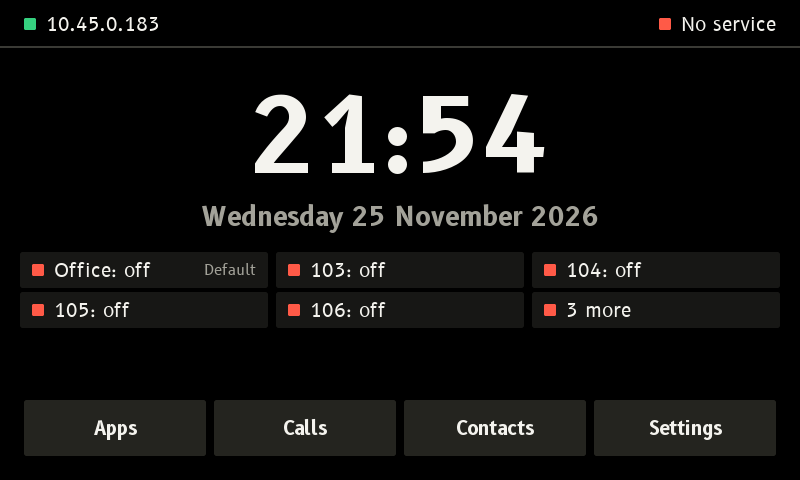
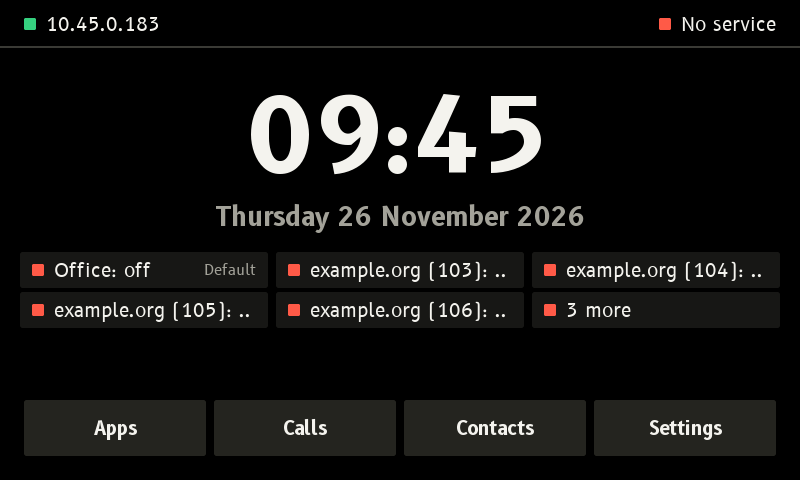
Docs: refused calls, +, account names, and the dialler's speed

diff --git a/docs/phone.md b/docs/phone.md
@@ -10,6 +10,7 @@ Issues [#26](https://github.com/M0LTE/yealink-t48s/issues/26), [#27](https://git
 - **New (2026-11-25, #77):** up to 16 accounts; per account an Account name, and under Advanced registration expiry, DTMF mode (RFC 2833, SIP INFO, in-band), codecs and their order, NAT keepalive ([sip.md](sip.md#running-it)).
 - **New (2026-11-23, #36):** up to six SIP accounts, each with its own registration, and a choice of which one a call goes out from. See [Several accounts](#several-accounts).
 - **New (2026-11-25, #77):** with the handset lifted (or Speaker or Headset on), a number is called without the Call key: at once when it is complete, such as 999 or an eleven-digit UK number, otherwise 4 s after the last digit. See [Dial plan](#dial-plan).
+- **New (2026-11-26):** a refused call says why in a few words ("Busy", "Number not found", "Call settings not accepted") in place of the far end's status line; a held 0 types +; a key in the dialler redraws only the number, so the screen keeps up with typing (see [Speed](#speed)); an account with no Account name is called by its provider's domain, `example.net`, not by its user and host ([Several accounts](#several-accounts)).
 - **Tested in the simulator against the real services**: baresip with our modules, `t48-audiod` on its silent backend and a throwaway SIP server, with two more baresips as the people at the other end. Eighteen scripted scenarios pass, and pass again with the phone's own ARM builds of the shell, baresip and the audio service running under qemu. The new parts (#27, #36) have not run on the phone yet.
 - Apps can no longer reach call control: baresip's TCP control port is gone, replaced by our own module on a socket only root can open ([sip.md](sip.md#control-interface)).
 
@@ -29,6 +30,8 @@ Issues [#26](https://github.com/M0LTE/yealink-t48s/issues/26), [#27](https://git
 | ![messages waiting](img/phone-messages.png) | ![do not disturb](img/phone-dnd.png) |
 | ![two accounts on the idle screen](img/phone-idle-two-accounts.png) | ![choosing the account to call from](img/phone-dial-account.png) |
 | ![which account was called](img/phone-incoming-account.png) | ![the history with accounts](img/phone-history-accounts.png) |
+| ![a call refused for its settings](img/phone-call-refused.png) | ![+ from a held 0](img/phone-dial-plus.png) |
+| ![accounts named by their domain](img/phone-idle-account-names.png) | ![the T46S: a refused call](img/t46s/call-refused.png) |
 
 ## What each thing does
 
@@ -37,7 +40,7 @@ Issues [#26](https://github.com/M0LTE/yealink-t48s/issues/26), [#27](https://git
 | **Lift the handset** | dial tone | calls the number typed; else dial tone | answers | moves the sound to the handset |
 | **Put it down** | | closes the dialler | | ends the call, if the sound was on the handset |
 | **Speaker**, **Headset** | dial tone there | calls the number typed there | answers there | moves the sound there. Pressed again: back to the handset if it is lifted, otherwise ends the call |
-| **Digits, `*`, `#`** | start a number | add to it; with the sound on, the number goes when complete ([dial plan](#dial-plan)). `#` is Call where the plan has no place for it | | send tones |
+| **Digits, `*`, `#`** | start a number | add to it; with the sound on, the number goes when complete ([dial plan](#dial-plan)). `#` is Call where the plan has no place for it. 0 held for 0.6 s as the first character is + | | send tones |
 | **OK** | apps | calls (on the speaker if the handset is down) | answers | answers a call that is waiting; with a call on hold, swaps to it |
 | **X** | | rubs out a digit; closes when empty | declines | cancels a call that has not connected; turns away a call that is waiting; closes the keypad |
 | **Mute** | | | silences the ringer | microphone off and on; silences the call waiting beep |
@@ -55,7 +58,23 @@ Other things worth knowing:
 - Volumes are kept per place (handset, speaker, headset, ringer) in `/data/config/audio` and given to the audio service at start.
 - The touch screen has the same things as buttons: a keypad in the dialler and in a call, Answer and Decline, Mute, Hold, Keypad, Speaker, Transfer, End. The on-screen Speaker button only moves the sound; it never hangs up.
 - Two calls at most; a third caller hears busy.
-- A call that fails plays busy or error tone in the handset (or on the speaker) until you hang up. With the phone on the hook nothing is played.
+- A call that fails plays busy or error tone in the handset (or on the speaker) until you hang up. With the phone on the hook nothing is played. The screen says why in a few words, from the Q.850 cause if the far end gave one, otherwise from the SIP status; for a fault the status is shown under it, small. The far end's own words go to the log (`phone: call failed: ...`). [`shell/names.c`](../shell/names.c) has the table:
+
+  | Shown | SIP status | Q.850 cause | Tone |
+  |---|---|---|---|
+  | Busy | 486, 600 | 17 | busy |
+  | No answer | | 18, 19 | busy |
+  | Not available | 480 | 20, 27 | busy |
+  | Declined | 603 | 21 | busy |
+  | Network busy | | 34, 38, 41, 42 | busy |
+  | No answer from network | 408, 503, 504 | | busy |
+  | Cancelled | 487 | | busy |
+  | Number not found | 404, 410, 604 | 1, 3, 22 | error |
+  | Wrong number | 484 | 28 | error |
+  | Not allowed | 401, 403, 407 | | error |
+  | Call settings not accepted (codecs or encryption the far end will not take) | 415, 488, 606 | 88 | error |
+  | Call failed | anything else | | error |
+- **+** is a 0 held down for 0.6 s, on the keypad or the screen's, as the first character only; the screen's 0 key has a small + beside it. A number that starts with + goes to baresip as it is and is called as `sip:+44...@server`.
 - Missed calls are counted on the idle screen until the history has been looked at. History is the last 50 calls, in `/data/phone/history`. Picking one puts its number in the dialler. Its buttons: Dial, Add contact (for a number not in the list yet), Delete (that line) and Clear all (asks first).
 - If the shell is restarted in the middle of a call, the call carries on (it lives in baresip and the audio service) and the new shell picks it up: same screen, same timer, same route and mute.
 - If baresip stops, the idle screen says "No phone service" and a call in progress ends as "Call lost".
@@ -162,6 +181,7 @@ Up to 16, the stock firmware's number of lines, set in Settings, Accounts ([sett
 - **Calls go out from the default account** unless another is chosen: Left and Right in the dialler step through the accounts, as does a touch on the "From" line. A touch on an account's line on the idle screen opens the dialler already set to it.
 - **Which is the default** is set on the Accounts page. The status bar shows that one; with more than one account the idle screen has a line for each with its own dot. Over six, the sixth line is the rest: how many, and the dot of the worst of them; a touch on it opens the dialler. The small screen's one line becomes dots alone when the names do not fit.
 - **The history keeps the account** of each call, and Redial and the history call back from the same one.
+- **What an account is called** on the phone's screens and the web setup page: its Account name if it has one; otherwise its server host cut to the domain, the last two parts (`sip.example.net` becomes `example.net`) or three under a country's second level (`voip.example.co.uk` becomes `example.co.uk`; an IP address stays as it is). Two accounts that would read the same have the first four characters of the user added: `example.net (Xq7r)`. Some providers give out a random user and a long host per customer; the full address is on the account's own page. On the idle screen a name too long to sit beside "Default" goes without the word: the status bar names the default too.
 - An account can be switched off without forgetting it ("Enabled"), given an **Account name** for the phone's own screens (the idle screen, the dialler's From, the call list, and later the line keys; `label` in the file), and removed. Display name is different: it is what the far end is told.
 
 The dot beside an account is green when registered, amber while trying, red when the server refused or baresip is not running. The shell reads the same files `t48-sip` does ([sip.md](sip.md#running-it), example in [`sip/config/sip.example`](../sip/config/sip.example)), and only for what it shows; the passwords are baresip's business. No account is in the repository; the tests use made-up ones on a server that exists for a minute.
@@ -194,6 +214,21 @@ The message lamp was called "power" here until 2026-11-23 (Yealink's own files c
 ```
 
 `phone.c` is one small state machine: idle, dial, outgoing, incoming, in call, ended, for the call in front; beside it sits at most one other call, either waiting to be answered or on hold. It follows baresip's events (`CALL_INCOMING`, `CALL_RINGING`, `CALL_ESTABLISHED`, `CALL_CLOSED`, `REGISTER_OK`, ...) and tells the audio service what the owner should hear, in the order [audiod.md](audiod.md#the-control-socket-the-shell) asks for. Both clients keep trying once a second if their service is not there, and say everything again when it comes back.
+
+## Speed
+
+Reported on the phone (2026-11-26): typing in the dialler felt slow. Measured on the phone (a T48S, its 500 MHz ARM11) with the simulator's build run there, and from the shell's and the audio service's logs:
+
+- **The key's sound** was the larger part. Typing with the handset down, each key's tone opened the audio hardware and closed it again 0.3 s later, as the hardware stopped 100 ms after the last sound. Closing it waits for the outputs to ramp down (100 ms in the kernel driver), during which the audio service hears nothing else; opening it takes another 30 ms before the 40 ms of playback buffer. At an ordinary typing speed the next key often landed in that gap: its tone came 0.1 to 0.2 s late. The service now keeps the hardware running for 2 s after a key's sound, as it already did for an app's, so a key in a run of typing is heard 20 to 60 ms after it is pressed.
+- **The screen**: every key redrew and copied the whole 800 x 480 picture, 1.5 MB: 29 ms a key (20 ms to draw, most of it filling the background; 8 ms to copy). A key that changes only the number now redraws the number's part alone, 8 ms a key. The first digit, which lights the Call button, still redraws the screen, and does so once: opening the dialler from the idle screen drew it twice, once empty.
+
+| On the phone, per key in the dialler | Before | After |
+|---|---|---|
+| Screen | 29 ms | 8 ms |
+| First digit from the idle screen | 58 ms (two pictures) | 29 ms |
+| Key tone, typing on the hook | 70 to 190 ms, the hardware opened for each key | 20 to 60 ms |
+
+`shell/tests/25-dial-redraw.script` (and `small/12-dial-redraw.script`) checks that the part drawn alone leaves the same picture as a whole redraw.
 
 ## Testing
 
@@ -232,6 +267,8 @@ Result on 2026-11-23, all passing, both as PC builds and with `ARM=1`:
 | 20 several accounts | a second account is typed in on the Settings screens and the phone service restarts with both registered; a call out from the chosen account arrives from 1004, Redial uses it again, a plain call still goes from 1001; calls in to each say which was called; the history has the account; the usual account is changed and changed back; the account is removed and one is left |
 
 `make -C shell check` also runs `20-calls.script` (and `small/06-calls.script` on the T46S's screen): the ringtone row (Custom once there is a sound), the forwarding page and Block direct calls on the Advanced page, and FWD in the header.
+
+`make -C shell check` also runs `tests/sip/` on the T48S's screen and `small/11-failed-calls.script` on the T46S's, with `tests/small/fakesip.py` standing in for baresip: calls refused with a provider's whole Reason header, busy, no answer, number not found and the network not answering, each with its short reason; + from a held 0 on the keys and on the screen, and only as the first character, dialled as it is; and accounts at one provider named by its domain and the start of each user, on the idle screen, the dialler and Settings, Accounts. `tests/test_names.c` checks the reasons and the domain rule on their own.
 
 `make -C shell check` also runs `tests/test_dialplan.c` (the matcher: the syntax refused and taken, and what the default and other maps say of some 170 numbers), `19-dialplan.script` and `small/05-dialplan.script` (the dialler and the Advanced page on both models, with no services), and `08-contacts.script`: the contact list, the history's buttons and do not disturb with no services behind them.
 

diff --git a/docs/shell.md b/docs/shell.md
@@ -120,7 +120,7 @@ The screen is kept in memory; there is no window yet. Apps are the real programs
 | `waitframe [MS]` | until the app has drawn (a DAMAGE or a FLIP) since the last input (fails after MS, default 3000) |
 | `waitscreen NAME [MS]` | until the shell shows `idle`, `launcher`, `app`, `call`, `message`, `history`, `settings`, `contacts` or `keys` (the key test) |
 | `expect NAME` | fail unless that screen is showing now |
-| `expectstate KEY VALUE` | fail unless that is so now (spaces in a value are written `_`). Settings and apps: `settings.page`, `settings.row` and `settings.value` (the selected row), `settings.rows`, `settings.heading` (the group heading above the selected row on Apps, `-` for none), `kbd` (`open`, `closed`), `kbd.text`, `overlay` (`none`, `busy`, `message`, `confirm`, `door`: the password screen of [access.md](access.md)), `door.password` (`(shown)` or `(none)`, never the password), `backlight` (`on`, `dim`, `off`), `backlight.level` (0 to 10, as last told to the hardware), `overlay.title`, `store` (`loading`, `loaded`, `error`), `store.ID` (`available`, `installed`, `update`, `unsupported`, `builtin`), `store.errors` (how many feeds failed), `storesrc.ID` and `storealso.ID` (the app's feed, the other feeds that have it, `-` for none), `settings.sub` (the quiet words after the chosen row's label), `feeds` (how many), `installed.ID` (its version, or `no`), `cfg.FILE.KEY` (from the settings store; `apps:ID` for an app's file), `tz`, `appid`, `flip` (`on` while the app in front is flipping, otherwise `off`), `theme` (`switchboard`, `directory`, `twotone`), `notes` (the idle screen's notices as drawn, `|` between them; `-` for none), `font`, `layout` (`full`, `small`), `soft1` to `soft4` (a small screen: the label over that soft key, `-` for none), `appsize` (the open app's picture, `800x480` or the screen's own). The phone: `phone` (`idle`, `dial`, `outgoing`, `incoming`, `incall`, `ended`), `route` (`none`, `handset`, `speaker`, `headset`), `mute`, `hold`, `number`, `autodial` (the dialler's countdown in whole seconds, or `off`), `peer`, `dtmf`, `ended`, `reg`, `missed`, `history`, `last`, `vol.ringer` (and the others), `led.speaker` (and `led.headset`, `led.mute`, `led.message`: what the phone wants there, `off`, `on`, `blink`, `slow`), `lamp.speaker` (and the others: what is lit, which is the same unless the app in front has the lamp, and then its level, `0` to `255`), `app`, `sip`, `audio`; the second call: `other` (`none`, `waiting`, `held`), `other.peer`, `consult`, `parked`; `name` (who the call is with, by name), `note`, `dnd`, `messages`; accounts: `accounts` (how many are in use), `acct` (the one in use, 1 to 16), `acct.default`, `reg.2` (and the others), `last.acct`, `last.name`; contacts: `contacts` (how many), `contacts.mode` (`list`, `name`, `number`, `confirm`), `contacts.sel`, `contacts.number`; the key test: `keys.last` (`CODE/KEY/down`, `up` or `none`; `-` before any key), `keys.seen` (how many different keys so far); and what the audio service itself reports: `audio.route`, `audio.mute`, `audio.tone`, `audio.ring`, `audio.call`, `audio.vol.handset` |
+| `expectstate KEY VALUE` | fail unless that is so now (spaces in a value are written `_`). Settings and apps: `settings.page`, `settings.row` and `settings.value` (the selected row), `settings.rows`, `settings.heading` (the group heading above the selected row on Apps, `-` for none), `kbd` (`open`, `closed`), `kbd.text`, `overlay` (`none`, `busy`, `message`, `confirm`, `door`: the password screen of [access.md](access.md)), `door.password` (`(shown)` or `(none)`, never the password), `backlight` (`on`, `dim`, `off`), `backlight.level` (0 to 10, as last told to the hardware), `overlay.title`, `store` (`loading`, `loaded`, `error`), `store.ID` (`available`, `installed`, `update`, `unsupported`, `builtin`), `store.errors` (how many feeds failed), `storesrc.ID` and `storealso.ID` (the app's feed, the other feeds that have it, `-` for none), `settings.sub` (the quiet words after the chosen row's label), `feeds` (how many), `installed.ID` (its version, or `no`), `cfg.FILE.KEY` (from the settings store; `apps:ID` for an app's file), `tz`, `appid`, `flip` (`on` while the app in front is flipping, otherwise `off`), `theme` (`switchboard`, `directory`, `twotone`), `notes` (the idle screen's notices as drawn, `|` between them; `-` for none), `font`, `layout` (`full`, `small`), `soft1` to `soft4` (a small screen: the label over that soft key, `-` for none), `appsize` (the open app's picture, `800x480` or the screen's own). The phone: `phone` (`idle`, `dial`, `outgoing`, `incoming`, `incall`, `ended`), `route` (`none`, `handset`, `speaker`, `headset`), `mute`, `hold`, `number`, `autodial` (the dialler's countdown in whole seconds, or `off`), `peer`, `dtmf`, `ended` (and `ended.detail`, the small line under it), `reg`, `missed`, `history`, `last`, `vol.ringer` (and the others), `led.speaker` (and `led.headset`, `led.mute`, `led.message`: what the phone wants there, `off`, `on`, `blink`, `slow`), `lamp.speaker` (and the others: what is lit, which is the same unless the app in front has the lamp, and then its level, `0` to `255`), `app`, `sip`, `audio`; the second call: `other` (`none`, `waiting`, `held`), `other.peer`, `consult`, `parked`; `name` (who the call is with, by name), `note`, `dnd`, `messages`; accounts: `accounts` (how many are in use), `acct` (the one in use, 1 to 16), `acct.default`, `acct.name.2` (what the screens call account 2, and the others), `acct.line` (the status bar's account), `reg.2` (and the others), `last.acct`, `last.name`; contacts: `contacts` (how many), `contacts.mode` (`list`, `name`, `number`, `confirm`), `contacts.sel`, `contacts.number`; the key test: `keys.last` (`CODE/KEY/down`, `up` or `none`; `-` before any key), `keys.seen` (how many different keys so far); and what the audio service itself reports: `audio.route`, `audio.mute`, `audio.tone`, `audio.ring`, `audio.call`, `audio.vol.handset` |
 | `waitstate KEY VALUE [MS]` | until that is so (fails after MS, default 3000) |
 | `expectpixel X Y COLOUR`, `waitpixel X Y COLOUR [MS]` | the colour of one pixel of the screen: `RRGGBB`, or a colour of the theme in use by name (`bg`, `panel`, `text`, `key`, `sel`, `head`, `accent`, `good`, `bad`, `ring`, `call`, `hold`) |
 | `run COMMAND` | run a command on the PC and fail if it does; used to make the far end of a test call do things |

diff --git a/docs/audiod.md b/docs/audiod.md
@@ -30,7 +30,7 @@ Each 20 ms tick, driven by the hardware's own sample clock:
 4. microphone = DC removed, echo control on the speakerphone, silence if muted or on hook;
 5. play the loudspeaker frame, send the microphone frame to baresip.
 
-When nothing is wanted (on hook, no call audio, no tone, no app writing sound) the hardware is closed and the process sleeps. It uses no CPU at all while the phone is idle.
+When nothing is wanted (on hook, no call audio, no tone, no app writing sound) the hardware is closed and the process sleeps. It uses no CPU at all while the phone is idle. After a key's sound it stays running for 2 s, for the next key: closing and opening it between keys made the tones late ([phone.md](phone.md#speed)).
 
 Rules worth knowing:
 
@@ -301,7 +301,7 @@ Run on 2026-11-23. Nothing in this section touched the phone or any sound device
 | `test_msg` | messages whole, a byte at a time, oversized, and to a peer that has stopped reading |
 | `test_appsnd` | an app's sound. The ring: only a sealed memfd of the right size is taken; every sample comes out once and in order, round the ring many times; a sound starts on a whole frame and a short one is not kept waiting; an app that scribbles on the ring is emptied, not believed; off the screen nothing is taken and what waited is dropped. The engine: volume 15 is the limit and each step is 2 dB; silence when the app stops; faded out within a frame for ringing, a tone and a call, and back after; never past the limit with a key sound on top |
 | `socket_test.py`, an app | the real daemon with a stand-in for the shell and an app: an unsealed ring is refused; writing starts the hardware and is taken at 16000 samples a second without running dry; a full-scale tone at volume 15 lands on the limit; while the phone rings the app's sound is taken and not played; paused, what waited is dropped and nothing is taken; the hardware idles 2 s after; when the shell's connection closes the ring is let go |
-| `socket_test.py`, calls | the real daemon with a stand-in for baresip: 100 frames arrive 20.0 ms apart, numbered from 0; silence on hook, the microphone file off hook; three late answers are played as silence and counted; an old-version client is refused; tones, ringer and key sounds land in the loudspeaker file and the hardware goes idle after each |
+| `socket_test.py`, calls | the real daemon with a stand-in for baresip: 100 frames arrive 20.0 ms apart, numbered from 0; silence on hook, the microphone file off hook; three late answers are played as silence and counted; an old-version client is refused; tones, ringer and key sounds land in the loudspeaker file and the hardware goes idle after each, 2 s after the last key's |
 
 `sip/test/audiod-test.sh`, in the build container on another machine, through a throwaway Kamailio with password login:
 

diff --git a/docs/web.md b/docs/web.md
@@ -34,7 +34,7 @@ Open that address in a browser. A browser the phone has not seen gets one page o
 | Page | What it does |
 |---|---|
 | Overview | where things stand, a tile for each page. Do not disturb, and an account that forwards every call, as DND and FWD on the phone's home screen; an update the daily check found, and the count of app updates, as the home screen's notices |
-| Accounts | Do not disturb, on and off: the same switch as Right on the home screen. The SIP accounts that are set and one to add, up to 16: every field the phone's screen has, ringtone and call forwarding included (an account that forwards every call says Forwarding), and the account's Advanced (registration expiry, DTMF, codecs with Up and Down, NAT keepalive, session timer, 100rel, SRTP), folded until one is changed. A custom ringtone: a WAV of up to 2 MB, made into the phone's format here ([phone.md](phone.md#ringtones)), or removed. The default account. Remove. The page's own Advanced: the dial plan ([phone.md](phone.md#dial-plan)), Block direct calls ([sip.md](sip.md#block-direct-calls)), and Certificates: root certificates for SIP over TLS, PEM or DER, listed with issuer and expiry, each with Remove; a file over 64 KB, one holding a private key, or a certificate that is not a root is refused ([sip.md](sip.md#certificates)) |
+| Accounts | Do not disturb, on and off: the same switch as Right on the home screen. The SIP accounts that are set and one to add, up to 16, each headed by what the phone calls it (its Account name, or its domain: [phone.md](phone.md#several-accounts)): every field the phone's screen has, ringtone and call forwarding included (an account that forwards every call says Forwarding), and the account's Advanced (registration expiry, DTMF, codecs with Up and Down, NAT keepalive, session timer, 100rel, SRTP), folded until one is changed. A custom ringtone: a WAV of up to 2 MB, made into the phone's format here ([phone.md](phone.md#ringtones)), or removed. The default account. Remove. The page's own Advanced: the dial plan ([phone.md](phone.md#dial-plan)), Block direct calls ([sip.md](sip.md#block-direct-calls)), and Certificates: root certificates for SIP over TLS, PEM or DER, listed with issuer and expiry, each with Remove; a file over 64 KB, one holding a private key, or a certificate that is not a root is refused ([sip.md](sip.md#certificates)) |
 | Network | DHCP, or a fixed address, netmask, gateway and DNS server |
 | Date and time | the time zone, from the phone's list, or a TZ string for a place the list lacks |
 | Sound and screen | ringer, handset, speaker and headset levels; brightness, and when the screen dims and goes off; the theme, which the page wears too ([design](design/README.md)) |

diff --git a/docs/status.md b/docs/status.md
@@ -35,6 +35,7 @@ Open work: the [issues](https://github.com/M0LTE/yealink-t48s/issues).
 
 A log, newest first. Each entry was true on its date; where a later one overtook it, the entry says so. From "How we got root" down is the first days, on Yealink's own firmware, kept as the record of how the phone was opened.
 
+- **Dialler and call screen polish** (2026-11-26, from a real call to a provider over TLS): a refused call says why in a few words, from the SIP status and the Q.850 cause, in place of the provider's whole Reason header cut off; a held 0 is +; an account with no Account name is called by its provider's domain on the phone and the web setup page. Typing in the dialler lagged: each key redrew the whole screen (29 ms on the phone) and, on the hook, opened and closed the audio hardware for its tone (70 to 190 ms late). Now 8 ms, and the hardware stays up 2 s between keys (`docs/phone.md`, Speed). Tested in the simulator; the timings were measured on the phone with the simulator's build, not yet with the installed shell.
 - **SIP over TLS, SRTP and added root certificates** (2026-11-26, issue #78): baresip is now built with OpenSSL, so Transport TLS works (server found by `_sips._tcp` SRV, certificate checked against the image's CA list and the name typed); SRTP per account under Advanced (Off, Optional, Compulsory, DTLS-SRTP; off by default), with Encrypted on the call screen; root certificates added on the web setup page, listed and removable on the phone. The system image grew 1.1 MB, baresip's memory about 2.4 MB with a TLS account (`docs/sip.md`). Tested against a Kamailio with TLS and between two baresips on a PC; not yet run on the phone or against a real provider.
 - **More than one app feed** (2026-11-26, [#81](https://github.com/M0LTE/yealink-t48s/issues/81)): the official feed first, up to seven more added on the phone and the web setup page; each app shows its feed, an app in two feeds is listed once, updates follow the feed an app came from, and one slow or broken feed holds up nothing else. The old single feed setting becomes the first added feed. Seen in the simulator only.
 - **App categories** (2026-11-26, [apps#30](https://github.com/M0LTE/yealink-t48s-apps/issues/30)): a manifest may name a category (General, Games, Radio, Tools, Media), the feed carries it, and Settings, Apps and the web setup page's Apps group apps under headings. No category is General. The launcher is unchanged. Seen in the simulator only.
